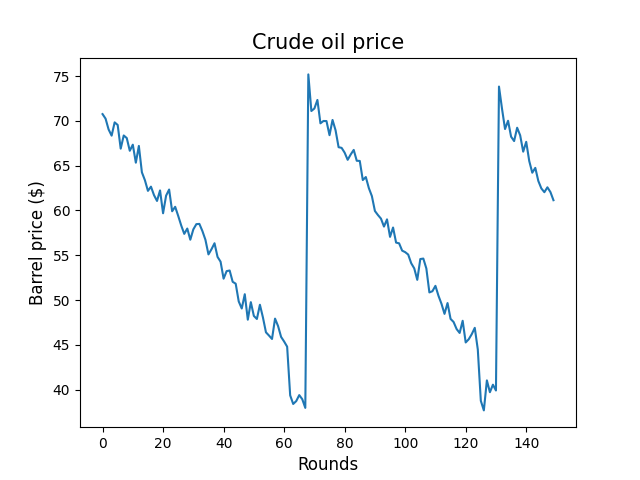
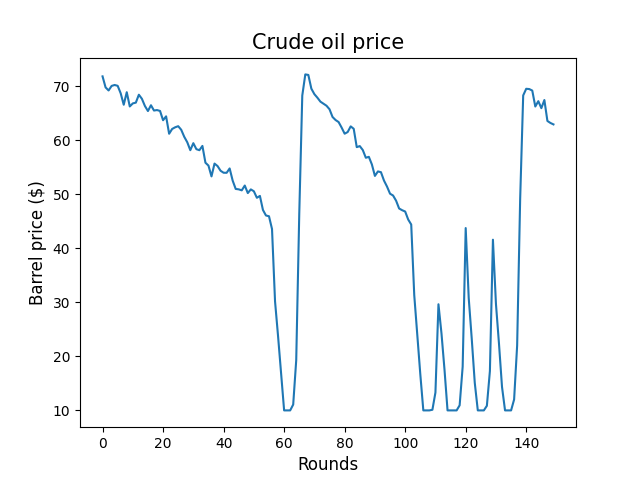
changed complince do cheat index

diff --git a/visualize.py b/visualize.py
@@ -11,18 +11,18 @@ def plot(prices: list[int]) -> None:
     fig.savefig("0_price.png")
     fig.clear()
 
-def plot_compliance(compliance_list: list[tuple[str, list[float]]]) -> None:
+def plot_cheat_index(cheat_index_list: list[tuple[str, list[float]]]) -> None:
     line_plot = None
 
-    for name, compliance in compliance_list:
-        line_plot = sns.lineplot(compliance, label=name)
+    for name, cheat_index in cheat_index_list:
+        line_plot = sns.lineplot(cheat_index, label=name)
 
     fig = line_plot.get_figure()
 
     line_plot.set_xlabel("Rounds", fontsize=12)
-    line_plot.set_ylabel("Compliance", fontsize=12)
-    line_plot.set_title("Compliance over time", fontsize=15)
+    line_plot.set_ylabel("Level of cheating", fontsize=12)
+    line_plot.set_title("Cheating over time", fontsize=15)
 
     line_plot.legend()
-    fig.savefig("0_compliance.png")
+    fig.savefig("0_cheating.png")
     fig.clear()

diff --git a/main.py b/main.py
@@ -12,7 +12,7 @@ ROUNDS = 150
 
 def calc_price(supply, base_supply, base_price, sensitivity):
     price = base_price - sensitivity * (supply - base_supply)
-    return max(0, price)
+    return max(10, price)
 
 
 class Simulation():
@@ -39,8 +39,8 @@ class Simulation():
 
     def plot(self):
         visualize.plot(self.prices)
-        compliance_list = [(c.name, c.compliance_history) for c in country.COUNTRIES]
-        visualize.plot_compliance(compliance_list)
+        cheat_index_list = [(c.name, c.cheat_index_history) for c in country.COUNTRIES]
+        visualize.plot_cheat_index(cheat_index_list)
 
 def main():
     simulation = Simulation()

diff --git a/country.py b/country.py
@@ -15,7 +15,7 @@ class Country():
         self.production = quota
         self.total_revenue = 0
         self.total_profit = 0
-        self.compliance_history = []
+        self.cheat_index_history = []
         self.strategy = strategy    
 
     def decide_production(self, market_state) -> float:
@@ -27,7 +27,7 @@ class Country():
 
         self.total_revenue += price * self.production
         self.total_profit += (price - self.mine_price) * self.production
-        self.compliance_history.append(self.production / self.quota)
+        self.cheat_index_history.append(self.production / self.quota)
 
 def load_countries(strategy_name, path="strategies.json"):
     with open(path) as f:

diff --git a/strategies.py b/strategies.py
@@ -14,7 +14,7 @@ def play_creeper(country, market_state):
           or market_state.round == 0:
         return country.quota
     
-    return country.quota * (country.compliance_history[-1] + 0.015)
+    return country.quota * (country.cheat_index_history[-1] + 0.015)
 
 def play_enforce(country, market_state):
     if country.kwargs['flood_left'] > 0:
@@ -42,7 +42,7 @@ def play_desperate(country, market_state):
     if market_state.price >= country.kwargs['budget_price']:
         return country.quota
 
-    multiplier = market_state.price / country.kwargs['budget_price']
+    multiplier = country.kwargs['budget_price'] / market_state.price
     return country.quota * multiplier
 
 